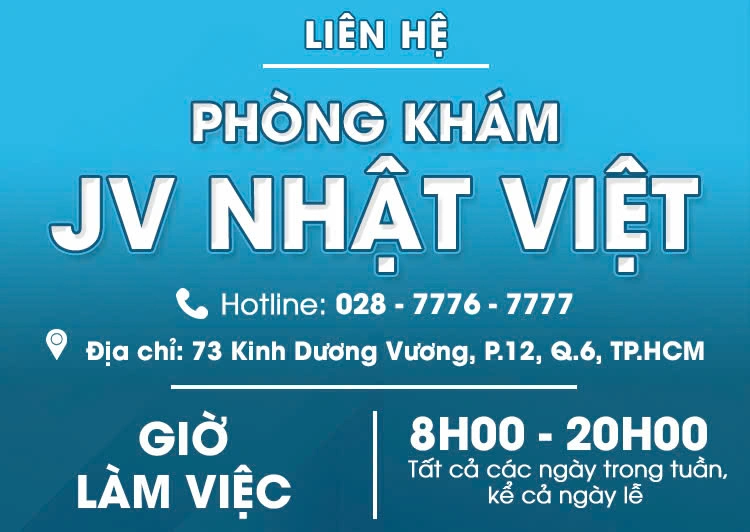
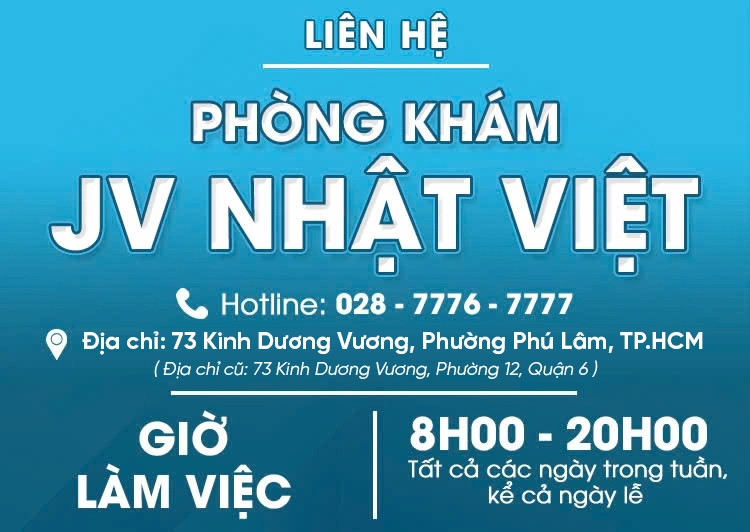
update

Changed region(s): [[0.092, 0.6015, 0.9507, 0.7519]]

diff --git a/css/footer.min.css b/css/footer.min.css
@@ -1,28 +1,28 @@
 /* footer */
-.footer{
+.footer {
     margin-top: 30px;
 }
-.footer__support{
-    background-image: url('../images//banner/banner_footer.webp');
+.footer__support {
+    background-image: url("../images//banner/banner_footer.webp");
     height: 200px;
     background-size: cover;
     background-repeat: no-repeat;
 }
 
-.footer__support-body{
+.footer__support-body {
     max-width: var(--container);
     margin: var(--margin-auto);
     padding: 10px 0px;
 }
 
-.footer__support-body>h5{
+.footer__support-body > h5 {
     font-size: var(--font-size-26);
     font-weight: var(--font-weight-700);
     text-align: var(--text-center);
     color: var(--color-white);
 }
 
-.footer__support-body>span{
+.footer__support-body > span {
     display: var(--display-block);
     font-size: var(--font-size-18);
     font-weight: var(--font-weight-700);
@@ -38,7 +38,7 @@
     margin-top: 15px;
 }
 
-.footer__support-body-row{
+.footer__support-body-row {
     display: var(--display-flex);
     align-items: var(--align-item-center);
     justify-content: var(--justify-content-center);
@@ -46,7 +46,7 @@
     margin-top: 20px;
 }
 
-.footer__support-body-card{
+.footer__support-body-card {
     width: 33%;
     border: 1px solid var(--color-white);
     border-radius: 10px;
@@ -56,18 +56,18 @@
     text-decoration: none;
 }
 
-.footer__support-body-text{
+.footer__support-body-text {
     padding-left: 10px;
 }
 
-.footer__support-body-text>h5{
+.footer__support-body-text > h5 {
     font-size: var(--font-size-20);
     color: var(--color-white);
     text-align: var(--text-center);
     font-weight: var(--font-weight-700);
 }
 
-.footer__support-body-text>div{
+.footer__support-body-text > div {
     font-size: var(--font-size-16);
     color: var(--color-white);
     text-align: var(--text-center);
@@ -75,7 +75,7 @@
     margin-top: 5px;
 }
 
-.footer__contact{
+.footer__contact {
     max-width: var(--container);
     margin: var(--margin-auto);
     display: var(--display-flex);
@@ -83,61 +83,65 @@
     gap: 20px;
 }
 
-.footer__contact-left{
+.footer__contact-left {
     width: 30%;
 }
 
-.footer__contact-left-title{
+.footer__contact-left-title {
     font-size: var(--font-size-18);
     color: var(--color-01969A);
     font-weight: var(--font-weight-700);
     margin-top: 15px;
 }
-.footer__contact-left-title>span{
+.footer__contact-left-title > span {
     border-bottom: 3px solid var(--color-01969A);
 }
 
-.footer__contact-left-now{
+.footer__contact-left-now {
     font-size: var(--font-size-18);
     color: var(--color-01969A);
     font-weight: var(--font-weight-700);
     margin-top: 5px;
 }
 
-.footer__contact-left>div{
+.footer__contact-left > div {
     margin-top: 10px;
 }
 
-.footer__contact-left-card{
+.footer__contact-left-card {
     display: var(--display-flex);
     align-items: var(--align-item-center);
     gap: 10px;
     margin-top: 15px !important;
 }
 
-.footer__contact-left-card-div>h5{
+.footer__contact-left-card-div {
+    width: 90%;
+}
+
+.footer__contact-left-card-div > h5 {
     font-size: var(--font-size-16);
     font-weight: var(--font-weight-700);
     color: var(--color-black);
 }
-.footer__contact-left-card-div>span{
+.footer__contact-left-card-div > span {
     font-size: var(--font-size-16);
     font-weight: var(--font-weight-400);
     color: var(--color-black);
 }
 
 .footer__copyRight {
-   margin-top: 15px;
+    margin-top: 15px;
     padding: 10px;
     background-color: var(--background-color-01969A);
     color: var(--color-white);
     font-size: var(--font-size-20);
     font-weight: var(--font-weight-600);
 }
-.footer__copyRight>div{
+.footer__copyRight > div {
     max-width: var(--container);
     margin: var(--margin-auto);
 }
-.footer__contact-right{
+.footer__contact-right {
     width: 70%;
 }

diff --git a/inc/footer.php b/inc/footer.php
@@ -60,7 +60,8 @@
                  </amp-img>
                  <div class="footer__contact-left-card-div">
                      <h5>ĐỊA CHỈ</h5>
-                     <span>73 Kinh Dương Vương, Phường Phú Lâm, TP.HCM</span>
+                     <span>73 Kinh Dương Vương, Phường Phú Lâm, TP.HCM
+                         (Đc cũ: 73 Kinh Dương Vương, Phường 12, Quận 6)</span>
                  </div>
              </div>
              <div class="footer__contact-left-card">

diff --git a/layout/header_component.php b/layout/header_component.php
@@ -40,6 +40,7 @@
                     </div>
                     <h5 class="">
                         73 Kinh Dương Vương, Phường Phú Lâm, TP.HCM
+                        (Đc cũ: 73 Kinh Dương Vương, Phường 12, Quận 6)
                     </h5>
                 </div>
             </div>
